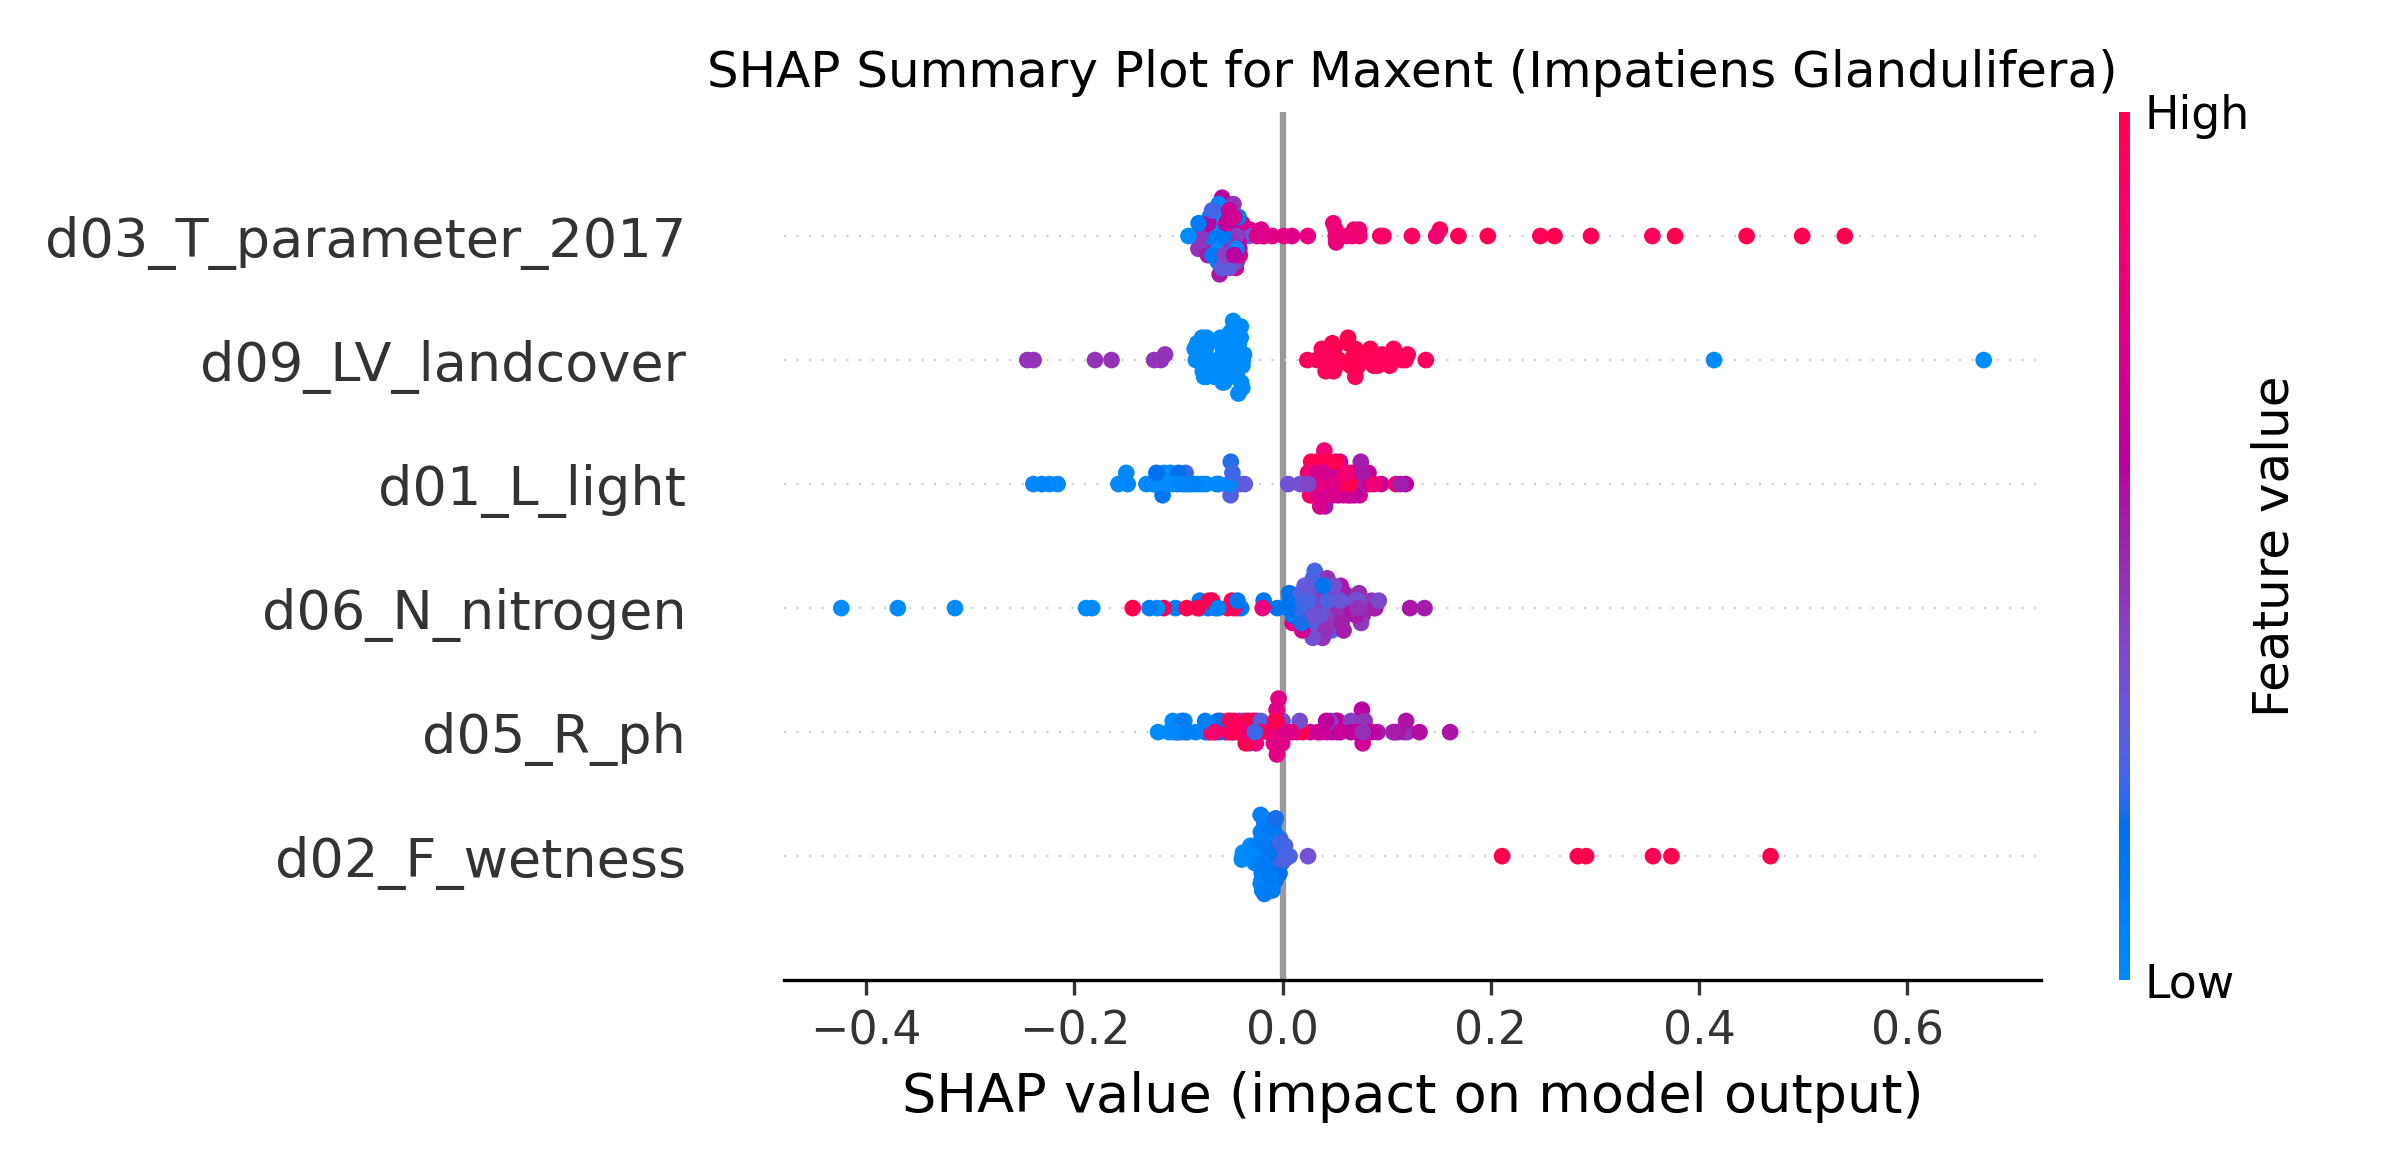
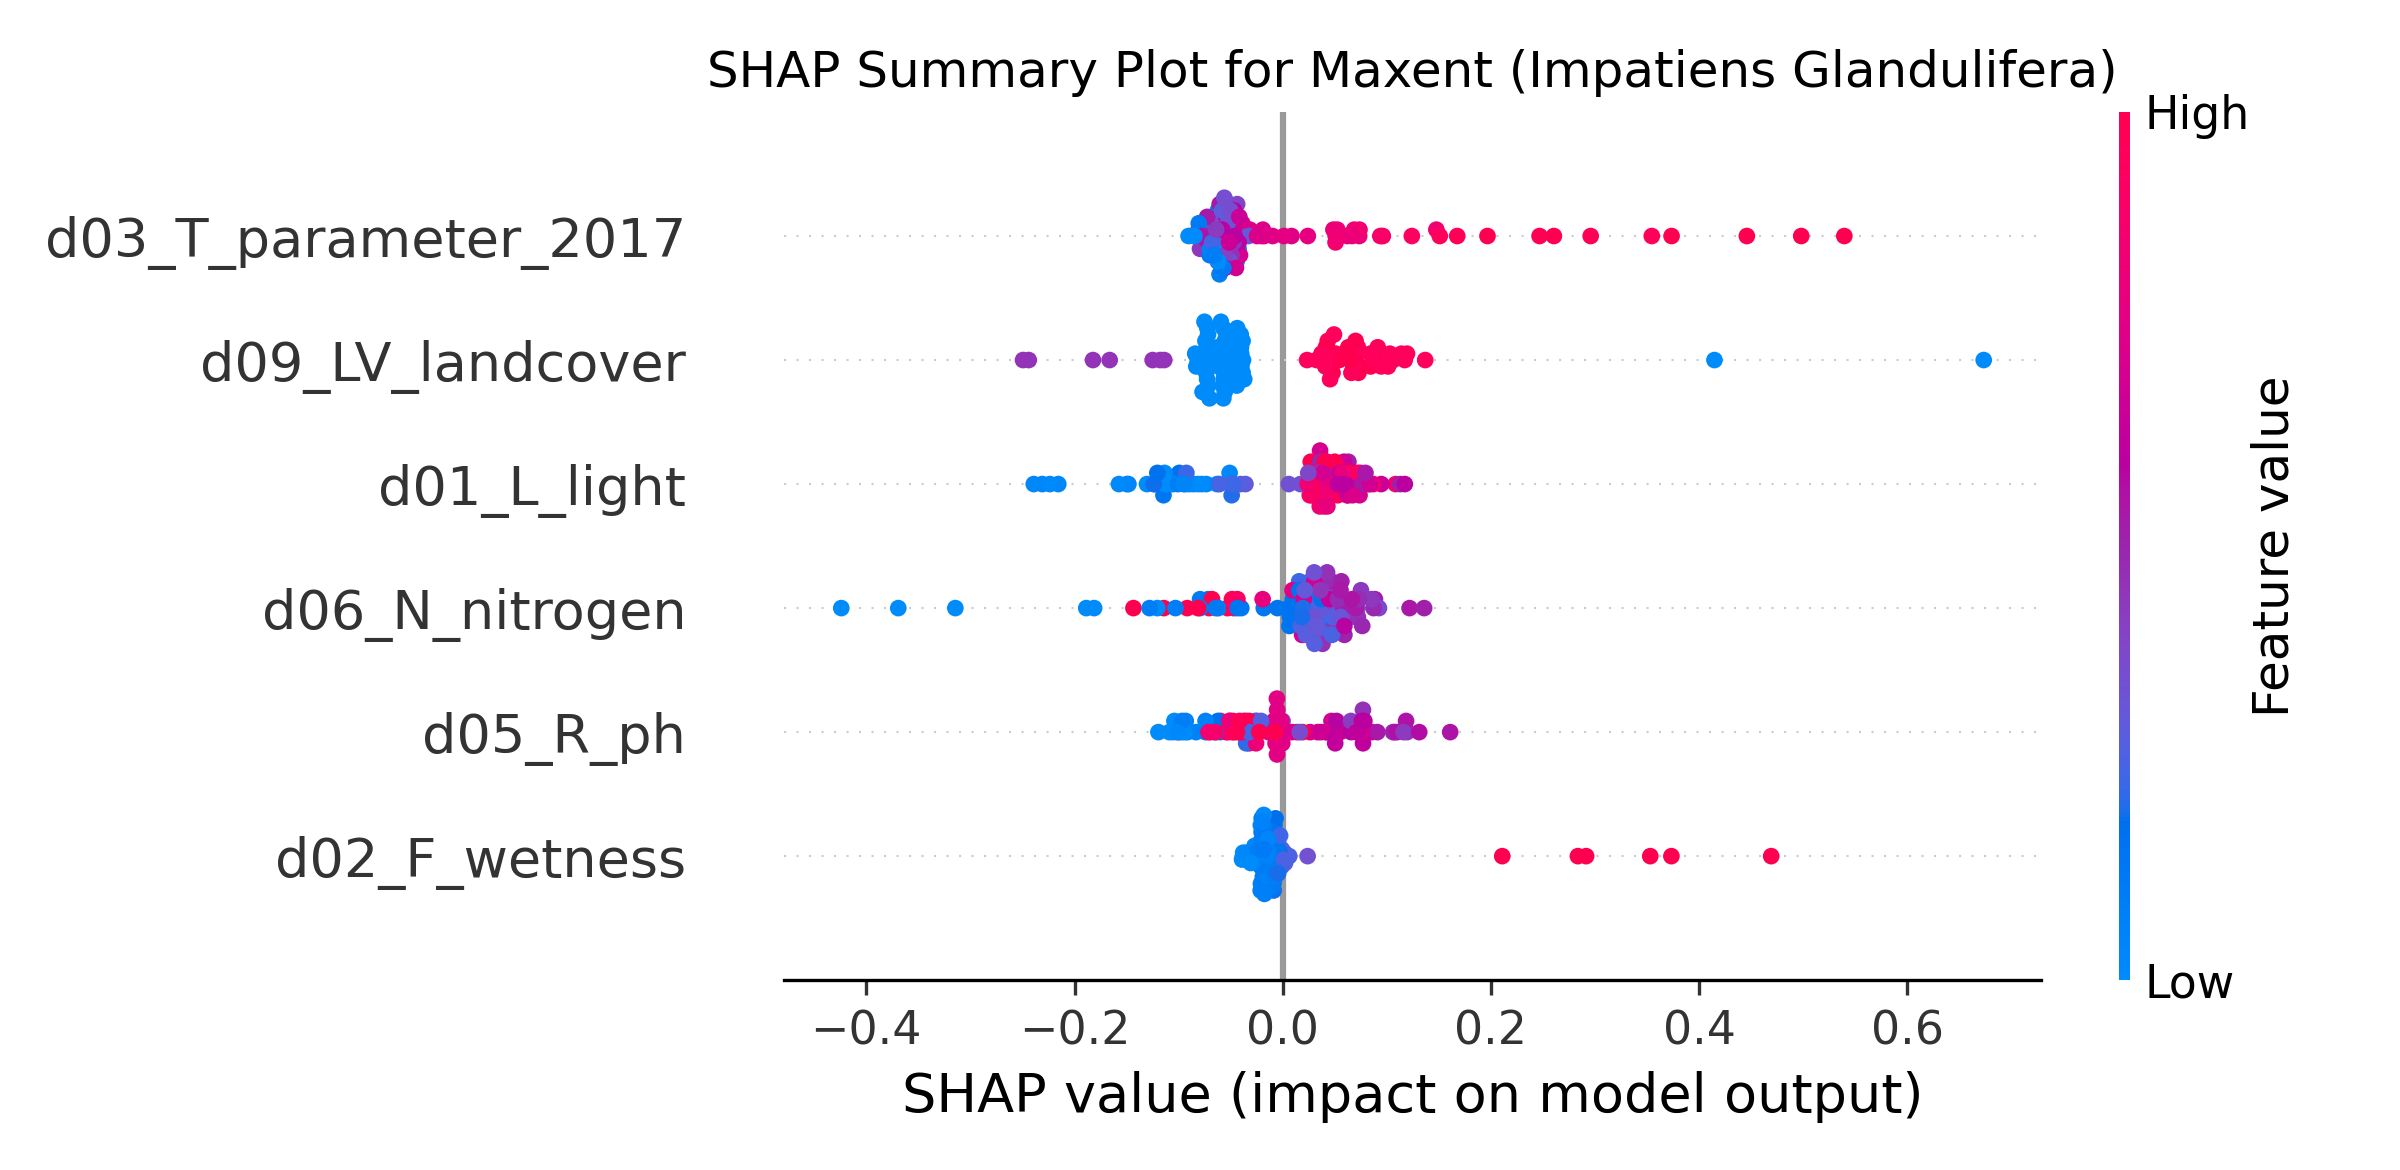
resources computation using Measurer

diff --git a/notebooks/dev/f07_neopythen/measurer.py b/notebooks/dev/f07_neopythen/measurer.py
@@ -1,0 +1,308 @@
+from codecarbon import EmissionsTracker
+import psutil
+import measurer_utilities
+import tracemalloc
+import platform
+import torch
+import pandas as pd
+import os
+import time
+import sys
+import numpy as np
+import cpuinfo 
+
+
+# noinspection PyAttributeOutsideInit
+class Measurer:
+
+    def __init__(self):
+        # DONE
+        self.data_size_in_grid_points = ''
+        # TO DO
+        self.largest_allocated_array_in_grid_points = ''
+        # DONE
+        self.data_size = 0
+        # DONE
+        self.data_read = 0
+        # DONE
+        self.data_written = 0
+        # DONE
+        self.main_memory_available = 0
+        # DONE
+        self.main_memory_consumed = 0
+        # TO DO
+        self.sum_of_allocated_variable_sizes = 0
+        # DONE
+        self.cpu_gpu_description = ''
+        # DONE
+        self.wall_time = 0
+        # DONE
+        self.max_energy_consumed = 0
+        # DONE
+        self.co2_consumed = 0
+        # DONE
+        self.network_traffic = 0
+        # TO DO
+        self.storage_cost = 0
+        self.compute_cost = 0
+        self.network_cost = 0
+        # DONE
+        self.programming_language = 'Python'
+        # DONE
+        self.essential_libraries = ''
+
+    def start_compute_wall_time(self):
+        self.wall_time = time.time()
+        return time
+    
+    def start_compute_disk_written(self):
+        w = psutil.disk_io_counters().write_bytes
+        self.data_written = w
+        return w
+    
+    def end_compute_disk_written(self):
+        w = psutil.disk_io_counters().write_bytes
+        o = self.data_written
+        final = w - o
+        self.data_written = final
+    
+    def start_compute_disk_read(self):
+        r = psutil.disk_io_counters().read_bytes
+        self.data_read = r
+        return r
+    
+    def end_compute_disk_read(self):
+        r = psutil.disk_io_counters().read_bytes
+        o = self.data_read
+        final = r - o
+        self.data_read = final
+        
+
+    def end_compute_wall_time(self):
+        t = self.wall_time
+        end = time.time()
+        self.wall_time = end - t
+        return end
+
+    def start_compute_data_size(self, data_path, aws_s3, aws_session):
+        if aws_s3:
+            s3 = aws_session.resource('s3')
+            bucket = s3.Bucket(data_path)
+            size_in_bytes = 0
+            for key in bucket.objects.all():
+                size_in_bytes += key.size
+            self.data_size = size_in_bytes
+        else:
+            self.data_size = psutil.disk_usage(data_path).used
+
+    def end_compute_data_size(self, data_path, aws_s3, aws_session):
+        start = self.data_size
+        if aws_s3:
+            s3 = aws_session.resource('s3')
+            bucket = s3.Bucket(data_path)
+            size_in_bytes = 0
+            for key in bucket.objects.all():
+                size_in_bytes += key.size
+            end = size_in_bytes
+        else:
+            end = psutil.disk_usage(data_path).used
+        end = end - start
+        self.data_size = end
+        return end
+
+    def start_compute_main_memory_consumed(self):
+        self.main_memory_consumed = 0
+        tracemalloc.start()
+
+    def end_compute_main_memory_consumed(self):
+        used = tracemalloc.get_traced_memory()[1]
+        tracemalloc.stop()
+        self.main_memory_consumed = used
+        return used
+
+    def total_main_memory_available(self):
+        total = psutil.virtual_memory().total
+        self.main_memory_available = total
+        return total
+
+    def compute_cpu_gpu_description(self):
+        description = ''
+        # Machine type
+        description = description + f"Machine type: {platform.machine()}\n"
+        # Processor type
+        description = description + f"Processor type: {platform.processor()}\n"
+        # Physical cores
+        description = description + f"Number of physical cores: {psutil.cpu_count(logical=False)}\n"
+        # Logical cores
+        description = description + f"Number of logical cores: {psutil.cpu_count(logical=True)}\n"
+        # Min frequency
+        # description = description + f"Min CPU frequency: {psutil.cpu_freq().min} GHz\n"
+        # Max frequency
+        #description = description + f"Max CPU frequency: {psutil.cpu_freq().max} GHz\n"
+        # frequency 
+        description = description + f"CPU frequency: {cpuinfo.get_cpu_info()['hz_advertised_friendly']}\n"
+        # GPU
+        use_cuda = torch.cuda.is_available()
+        if use_cuda:
+            description = description + 'CUDNN VERSION:' +  str(torch.backends.cudnn.version()) + "\n"
+            description = description + 'Number CUDA Devices:' + str(torch.cuda.device_count()) + "\n"
+            description = description + 'CUDA Device Name:' + str(torch.cuda.get_device_name(0)) + "\n"
+            description = description + 'CUDA Device Total Memory [MB]:' + str(round(torch.cuda.get_device_properties(
+                0).total_memory / 1e6, 2)) + "\n"
+        else:
+            description = description + 'No GPU available\n'
+        self.cpu_gpu_description = description
+        return description
+
+    def start_compute_co2_emissions(self):
+        self.co2_consumed = 0
+        # energy_consumed is in kW, Emissions as CO₂-equivalents [CO₂eq], in kg
+        tracker = EmissionsTracker(log_level='error', measure_power_secs=1)
+        tracker.start()
+        return tracker
+
+    def end_compute_co2_emissions(self, tracker):
+        emissions = tracker.stop()
+        g_emissions = 1000*emissions
+        g_emissions = round(g_emissions, 2)
+        self.co2_consumed = g_emissions
+        return g_emissions
+
+    def compute_data_size_in_grid_points(self, shape):
+        if len(shape) == 0:
+            self.data_size_in_grid_points = ''
+            return ''
+        d = ''
+        for i in range(len(shape)):
+            if i != 0:
+                d = d + "x"
+            d = d + str(shape[i])
+        self.data_size_in_grid_points = d
+        return d
+
+    def compute_energy_consumed(self):
+        emissions = pd.read_csv('emissions.csv')
+        kw = emissions['energy_consumed'].iloc[-1]
+        w = 1000*kw
+        w = round(w, 2)
+        self.max_energy_consumed = w
+        os.remove('emissions.csv')
+        return w
+
+    def start_compute_network_traffic(self):
+        sent = psutil.net_io_counters().bytes_sent
+        recv = psutil.net_io_counters().bytes_recv
+        self.network_traffic = sent + recv
+
+    def end_compute_network_traffic(self):
+        sent = psutil.net_io_counters().bytes_sent
+        recv = psutil.net_io_counters().bytes_recv
+        new_value = sent + recv
+        old_value = self.network_traffic
+        x = new_value - old_value
+        self.network_traffic = x
+        return x
+
+    def get_essential_libraries(self, libraries, program_path):
+        f = open(program_path, 'r')
+        lib = libraries
+        while True:
+            code_line = f.readline()
+            if not code_line:
+                break
+            if code_line[0] == '#':
+                continue
+            if not (code_line[:5] == 'from ' and code_line.__contains__('import')):
+                continue
+            code_line = code_line.split(' ')[1]
+            if code_line == 'types' or code_line == 'measurer':
+                continue
+            if code_line.__contains__('.'):
+                code_line = code_line.split('.')[0]
+            if code_line not in lib:
+                lib.append(code_line)
+        lib_str = ''
+        for i in lib:
+            lib_str = lib_str + i + "\n"
+        self.essential_libraries = lib_str
+        return lib_str
+
+    def write_out(self, csv_file):
+        csv = pd.DataFrame(columns=['Measure', 'Value'])
+        csv.loc[len(csv)] = {'Measure': 'Data size in grid points ', 'Value': self.data_size_in_grid_points}
+        csv.loc[len(csv)] = {'Measure': 'Largest allocated array in grid points ',
+                             'Value': self.largest_allocated_array_in_grid_points}
+        csv.loc[len(csv)] = {'Measure': 'Data size (MB)',
+                             'Value': round(measurer_utilities.bytes_to(self.data_size, 'm'),2)}
+        csv.loc[len(csv)] = {'Measure': 'Data read (MB)',
+                             'Value': round(measurer_utilities.bytes_to(self.data_read, 'm'),2)}
+        csv.loc[len(csv)] = {'Measure': 'Data written (MB)',
+                             'Value': round(measurer_utilities.bytes_to(self.data_written, 'm'),2)}
+        csv.loc[len(csv)] = {'Measure': 'Main memory available (MB)',
+                             'Value': round(measurer_utilities.bytes_to(self.main_memory_available, 'm'),2)}
+        csv.loc[len(csv)] = {'Measure': 'Main memory consumed (MB)',
+                             'Value': round(measurer_utilities.bytes_to(self.main_memory_consumed, 'm'), 2)}
+        csv.loc[len(csv)] = {'Measure': 'Sum of allocated variable sizes (MB)',
+                             'Value': round(measurer_utilities.bytes_to(self.sum_of_allocated_variable_sizes, 'm'),2)}
+        csv.loc[len(csv)] = {'Measure': 'Description of CPU/GPU', 'Value': self.cpu_gpu_description}
+        csv.loc[len(csv)] = {'Measure': 'Wall time (s)', 'Value': round(self.wall_time, 2)}
+        csv.loc[len(csv)] = {'Measure': 'Energy consumed (W)', 'Value': self.max_energy_consumed}
+        csv.loc[len(csv)] = {'Measure': 'CO₂-equivalents [CO₂eq] (g)', 'Value': self.co2_consumed}
+        csv.loc[len(csv)] = {'Measure': 'Network traffic (MB)',
+                             'Value': round(measurer_utilities.bytes_to(self.network_traffic, 'm'),2)}
+        # csv.loc[len(csv)] = {'Measure': 'Storage cost', 'Value': self.storage_cost}
+        # csv.loc[len(csv)] = {'Measure': 'Compute cost', 'Value': self.compute_cost}
+        # csv.loc[len(csv)] = {'Measure': 'Network cost', 'Value': self.network_cost}
+        csv.loc[len(csv)] = {'Measure': 'Programming language', 'Value': 'Python'}
+        csv.loc[len(csv)] = {'Measure': 'Essential libraries', 'Value': self.essential_libraries}
+        csv.to_csv(csv_file, index=False)
+        return csv
+
+    def compute_variable_sizes(self, variables):
+        variables_sum = 0
+        largest_array_size = 0
+        largest_array_shape = ''
+        for key in variables:
+            variables_sum = variables_sum + sys.getsizeof(variables[key])
+            if isinstance(variables[key], np.ndarray) or isinstance(variables[key], pd.DataFrame):
+                if variables[key].size > largest_array_size:
+                    largest_array_size = variables[key].size
+                    largest_array_shape = str(variables[key].shape).replace('(', '[').replace(')', ']')
+        self.sum_of_allocated_variable_sizes = variables_sum
+        self.largest_allocated_array_in_grid_points = largest_array_shape
+
+    # start
+    def start(self, data_path='/', logger=None, aws_s3=False, aws_session=None):
+        self.start_compute_wall_time()
+        if logger is not None:
+            logger.info(
+                "Started computational costs meter: wall time, memory consumed, network traffic, CO2 emissions, data size"
+            )
+        self.start_compute_main_memory_consumed()
+        self.start_compute_network_traffic()
+        tracker = self.start_compute_co2_emissions()
+        self.start_compute_data_size(data_path, aws_s3, aws_session)
+        self.start_compute_disk_written()
+        self.start_compute_disk_read()
+        return tracker
+
+    # end
+    def end(self, tracker, shape, libraries, csv_file, variables, data_path='/', program_path=__file__, logger=None, aws_s3=False,
+            aws_session=None):
+        self.end_compute_main_memory_consumed()
+        self.end_compute_co2_emissions(tracker)
+        self.end_compute_network_traffic()
+        self.compute_data_size_in_grid_points(shape)
+        self.compute_energy_consumed()
+        self.total_main_memory_available()
+        self.compute_cpu_gpu_description()
+        self.get_essential_libraries(libraries, program_path)
+        self.end_compute_data_size(data_path, aws_s3, aws_session)
+        self.end_compute_disk_written()
+        self.end_compute_disk_read()
+        self.end_compute_wall_time()
+        self.compute_variable_sizes(variables)
+        csv = self.write_out(csv_file)
+        if logger is not None:
+            logger.info("Stopped computational costs meter. Results saved at" , csv_file)
+        print(csv)

diff --git a/notebooks/dev/f07_neopythen/MaxentModel-Final.py b/notebooks/dev/f07_neopythen/MaxentModel-Final.py
@@ -17,7 +17,8 @@ import elapid # For Maxent
 import shap # For explainibility 
 import logging
 import warnings
-
+from measurer import Measurer
+from types import ModuleType
 
 warnings.filterwarnings("ignore")
 logging.basicConfig(level=logging.INFO, format="%(asctime)s - %(levelname)s - %(message)s")
@@ -214,6 +215,9 @@ def plot_shap_global(species, shap_values, sample_features):
 
 
 if __name__ == "__main__":
+    measurer = Measurer()
+    tracker = measurer.start(data_path=os.environ.get("HOME") +"/s3/data/d012_luxembourg/")
+    shape = []
     ######## connect to DATABASE server: 
     database_config_path = glob.glob(os.environ.get("HOME")+'/database*.ini')[0]
     keys = db_connect.config(filename=database_config_path)
@@ -392,7 +396,7 @@ if __name__ == "__main__":
             return maxent.predict(X).flatten()
 
         # Sampling
-        sample_size = 100
+        sample_size = 1000
         sample_features = shap.sample(features, sample_size, random_state=42)
         
         print(f"[SHAP Analysis] Running on {sample_size} sample points (Total dataset: {len(features)} rows)")
@@ -414,5 +418,12 @@ if __name__ == "__main__":
         logging.info(f"🌿 Processing {species} completed \n")
 
     print("\n✅ Process Complete - All species processed successfully!")
+    measurer.end(tracker=tracker,
+                 shape=shape,
+                 libraries=[v.__name__ for k, v in globals().items() if type(v) is ModuleType and not k.startswith('__')],
+                 data_path=os.environ.get("HOME") +"/s3/data/d012_luxembourg/",
+                 program_path=__file__,
+                 variables=locals(),
+                 csv_file='benchmarks.csv')
 
 

diff --git a/notebooks/dev/f07_neopythen/measurer_utilities.py b/notebooks/dev/f07_neopythen/measurer_utilities.py
@@ -1,0 +1,7 @@
+def bytes_to(bytes_value, to, bsize=1024):
+    # convert bytes to megabytes, etc.
+    a = {'k': 1, 'm': 2, 'g': 3, 't': 4, 'p': 5, 'e': 6}
+    r = float(bytes_value)
+    for i in range(a[to]):
+        r = r / bsize
+    return r
